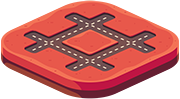
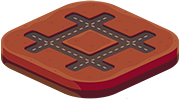
update jail&parking png contrast

diff --git a/client/src/scenes/board-scene/board-scene.ts b/client/src/scenes/board-scene/board-scene.ts
@@ -265,7 +265,7 @@ export class BoardScene extends Scene {
     let paddingY = 5;
 
     for (let i = 0; i < playerNum; i++) {
-      let infoLinePos = this.statInfoPos(paddingX + 2, paddingY + 6, i);
+      let infoLinePos = this.statInfoPos(paddingX, paddingY + 4, i);
       let playerLine = this.add.image(
         infoLinePos!.x,
         infoLinePos!.y,
@@ -274,14 +274,14 @@ export class BoardScene extends Scene {
       scaleGameObject(playerLine, 0.5);
       console.log(infoLinePos);
 
-      let infoTextPos = this.statInfoPos(paddingX, paddingY, i);
+      let infoTextPos = this.statInfoPos(paddingX - 1, paddingY + 10, i);
       let playerInfoText = this.add.text(
         infoTextPos!.x,
         infoTextPos!.y,
         'Player1',
         {
           fontFamily: 'Arial Black',
-          fontSize: 74,
+          fontSize: 60,
           color: this.playerStyle[i].color,
         },
       );
@@ -292,7 +292,23 @@ export class BoardScene extends Scene {
       scaleGameObject(playerInfoText);
       this.playerInfoGroup.add(playerInfoText);
 
-      let infoImgPos = this.statInfoPos(paddingX + 12, paddingY + 2, i);
+      let infoMoneyPos = this.statInfoPos(paddingX - 1, paddingY - 1, i);
+      let playerMoney = this.add.text(
+        infoMoneyPos!.x,
+        infoMoneyPos!.y,
+        '¥4599',
+        {
+          fontFamily: 'Arial Black',
+          fontSize: 60,
+          color: this.playerStyle[i].color,
+        },
+      );
+      playerMoney.setOrigin(0.5, 0.5);
+      playerMoney.setStroke('#fff', 16).setShadow(2, 2, '#fff', 2, true, true);
+      scaleGameObject(playerMoney);
+      // this.playerInfoGroup.add(playerInfoText);
+
+      let infoImgPos = this.statInfoPos(paddingX + 10, paddingY + 2, i);
       let playerImg = this.add.image(
         infoImgPos!.x,
         infoImgPos!.y,
@@ -348,7 +364,7 @@ export class BoardScene extends Scene {
     $('#game-playground').append(
       `<div id="area"
        style=" width: ${width(30)}px;
-              height: ${height(28)}px;">
+              height: ${height(22)}px;">
         <div id="dice-area"></div>
         <div id="operation">
         <button id="roll-btn"
